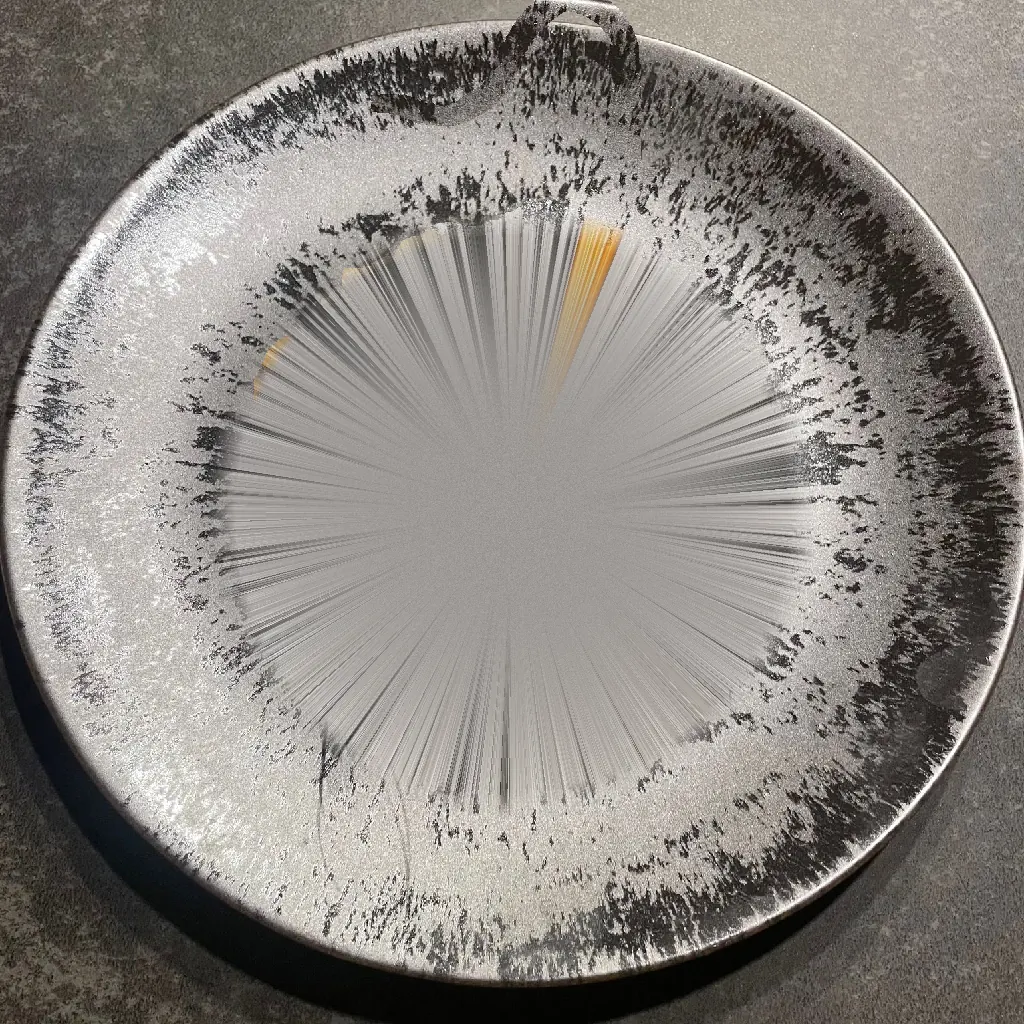
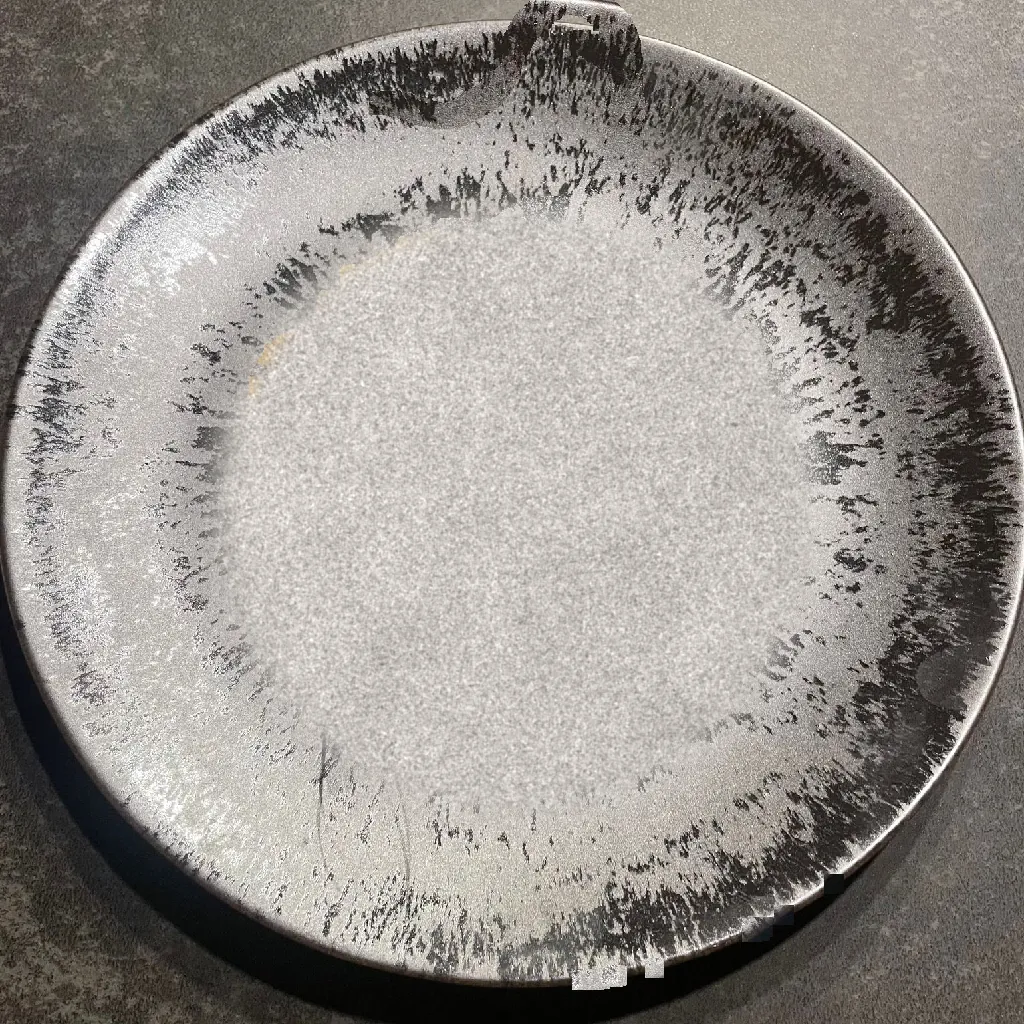
Restaurant : centre de l'assiette vide sans effet d'étoile
Céramique unie avec un grain fin et la couleur réelle de l'assiette,
fondu doux vers le décor du bord ; restes de gambas retirés.

Claude-Session: https://claude.ai/code/session_01L7NRgSpZJwFXaMsjDVvPub

diff --git a/demos/restaurant/scene.js b/demos/restaurant/scene.js
@@ -102,8 +102,8 @@ function init() {
   const loader = new THREE.TextureLoader();
   const tex = (url) => { const t = loader.load(url); t.colorSpace = THREE.SRGBColorSpace; t.anisotropy = 8; return t; };
   const tFull = tex('img/plate-full.webp?v=1');
-  const tEmpty = tex('img/plate-empty.webp?v=1');
-  const tH = loader.load('img/plate-height.webp?v=1');
+  const tEmpty = tex('img/plate-empty.webp?v=2');
+  const tH = loader.load('img/plate-height.webp?v=2');
   const plateMat = new THREE.ShaderMaterial({
     toneMapped: false,
     uniforms: { tFull: { value: tFull }, tEmpty: { value: tEmpty }, tH: { value: tH }, uFill: { value: 0 }, uTime: { value: 0 } },

diff --git a/demos/restaurant/index.html b/demos/restaurant/index.html
@@ -212,6 +212,6 @@
 
 <script src="../assets/demo-core.js?v=2"></script>
 <script src="app.js?v=2"></script>
-<script type="module" src="scene.js?v=3"></script>
+<script type="module" src="scene.js?v=4"></script>
 </body>
 </html>
